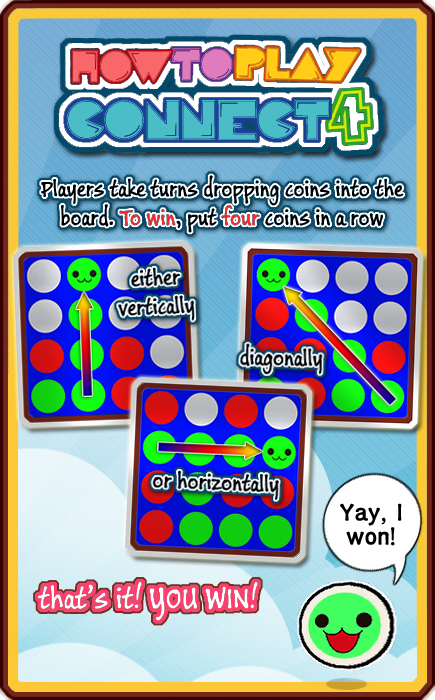
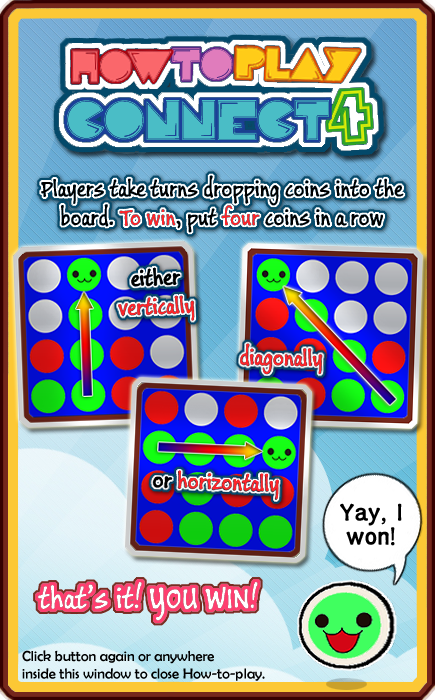
Update HelpPanel: closes w/ internal click; add description about how to close

diff --git a/src/Game/ConnectFourGame.java b/src/Game/ConnectFourGame.java
@@ -1,18 +1,16 @@
 package Game;
 
-import java.awt.Dimension;
 import java.awt.Toolkit;
 import java.awt.event.ActionEvent;
 import java.awt.event.ActionListener;
+import java.awt.event.MouseEvent;
+import java.awt.event.MouseListener;
 import java.util.HashMap;
 
-import javax.swing.JCheckBox;
 import javax.swing.JButton;
-import javax.swing.JComponent;
 import javax.swing.JDialog;
 import javax.swing.JFrame;
 import javax.swing.JOptionPane;
-import javax.swing.JRadioButton;
 
 import Audio.Music;
 import Audio.Sounds;
@@ -25,7 +23,7 @@ import GUI.DifficultyPanel;
 import GUI.SidePanel;
 
 
-public class ConnectFourGame extends JFrame implements ActionListener{
+public class ConnectFourGame extends JFrame implements ActionListener, MouseListener{
 	private MainFrame mainFrame;
 	private GamePanel gamePanel;
 	private JDialog helpDialog;
@@ -93,9 +91,15 @@ public class ConnectFourGame extends JFrame implements ActionListener{
 	public void viewHelpDialog() {
 		helpDialog = new JDialog();
 		HelpPanel helpPanel = new HelpPanel(mainFrame);
+		helpPanel.addMouseListener(this);
 		helpDialog = new JDialog();
 		helpDialog.setContentPane(helpPanel);
 		helpDialog.pack();
+		positionHelpDialog();
+		helpDialog.setVisible(true);
+	}
+	
+	public void positionHelpDialog() {
 		//put panel to the right of main panel
 		int x = 0;
 		int top_x = (int)mainFrame.getLocationOnScreen().getX();
@@ -111,7 +115,6 @@ public class ConnectFourGame extends JFrame implements ActionListener{
 		}
 		int top_y = (int)mainFrame.getLocationOnScreen().getY();
 		helpDialog.setBounds(x, top_y, 450, 750);
-		helpDialog.setVisible(true);
 	}
 	
 	public void hideHelpDialog() {
@@ -264,9 +267,10 @@ public class ConnectFourGame extends JFrame implements ActionListener{
 			startMusic();
 		} else if (event.getActionCommand().equalsIgnoreCase("Help")) {
 			if (helpDialog != null) {
-				if (!helpDialog.isVisible())
+				if (!helpDialog.isVisible()) {
+					positionHelpDialog();
 					helpDialog.setVisible(true);
-				else
+				} else
 					hideHelpDialog();
 			} else {
 				viewHelpDialog();
@@ -281,6 +285,33 @@ public class ConnectFourGame extends JFrame implements ActionListener{
 				System.exit(0);
 			}
 		}
+	}
+
+	@Override
+	public void mouseClicked(MouseEvent arg0) {
+		if (helpDialog != null) {
+			if (!helpDialog.isVisible()) {
+				positionHelpDialog();
+				helpDialog.setVisible(true);
+			} else
+				hideHelpDialog();
+		}
+	}
+
+	@Override
+	public void mouseEntered(MouseEvent arg0) {
+	}
+
+	@Override
+	public void mouseExited(MouseEvent arg0) {
+	}
+
+	@Override
+	public void mousePressed(MouseEvent arg0) {
+	}
+
+	@Override
+	public void mouseReleased(MouseEvent arg0) {
 	}
 	
 }

diff --git a/src/Game/BoardMechanics.java b/src/Game/BoardMechanics.java
@@ -460,9 +460,10 @@ public class BoardMechanics implements ActionListener, KeyListener{
 			}
 		} else if (event.getActionCommand().equals("Help")) {
 			if (c4Game.getHelpDialog() != null) {
-				if (!c4Game.getHelpDialog().isVisible())
+				if (!c4Game.getHelpDialog().isVisible()) {
+					c4Game.positionHelpDialog();
 					c4Game.getHelpDialog().setVisible(true);
-				else
+				} else
 					c4Game.hideHelpDialog();
 			} else {
 				c4Game.viewHelpDialog();

diff --git a/src/GUI/SidePanel.java b/src/GUI/SidePanel.java
@@ -13,8 +13,6 @@ import java.util.ArrayList;
 import javax.imageio.ImageIO;
 import javax.swing.*;
 
-import Game.BoardMechanics;
-
 public class SidePanel extends JPanel {
 
 	/**
